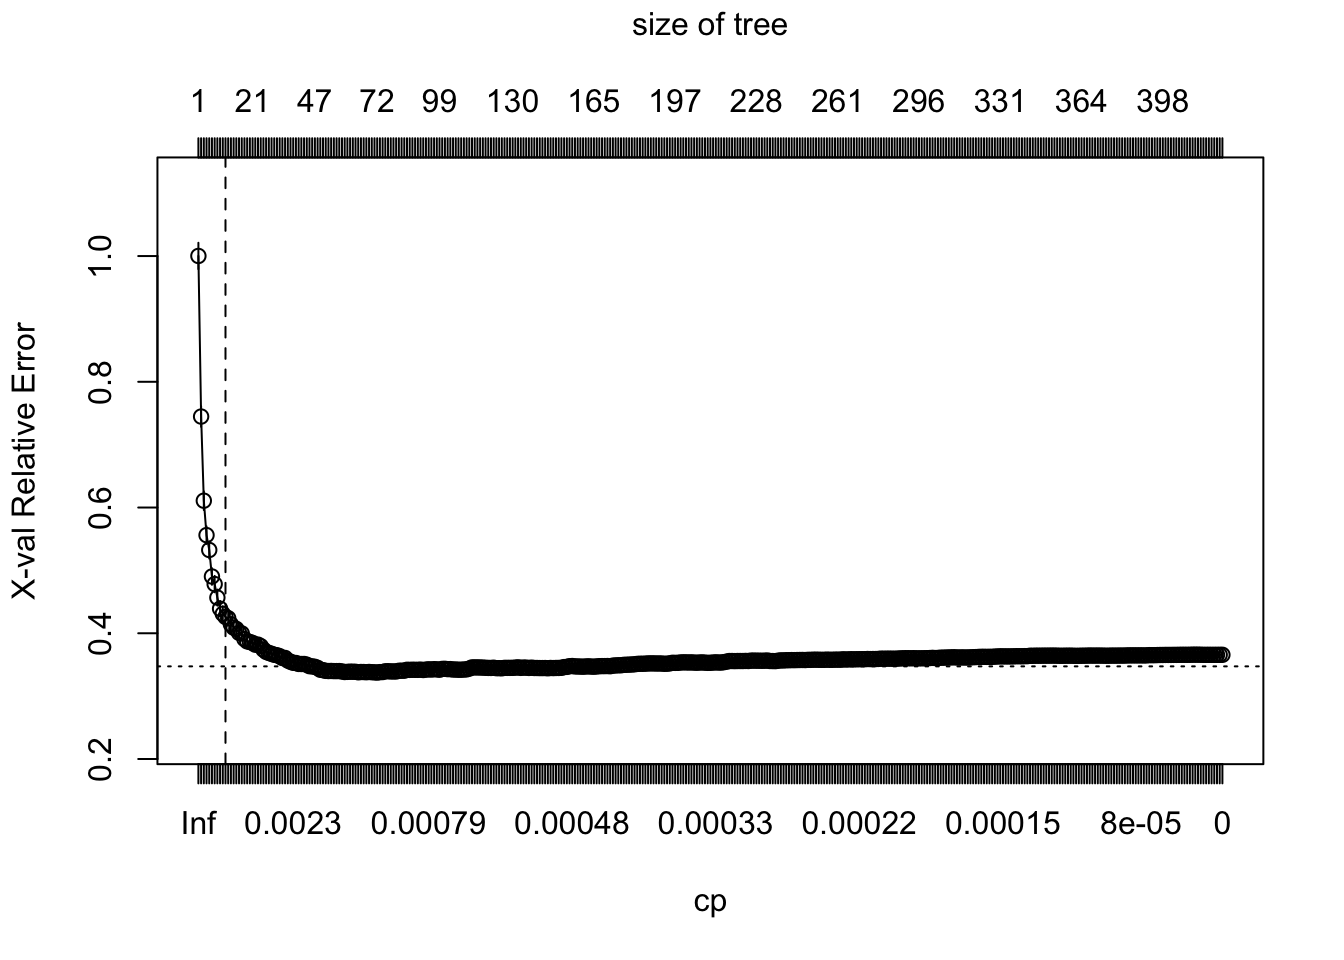
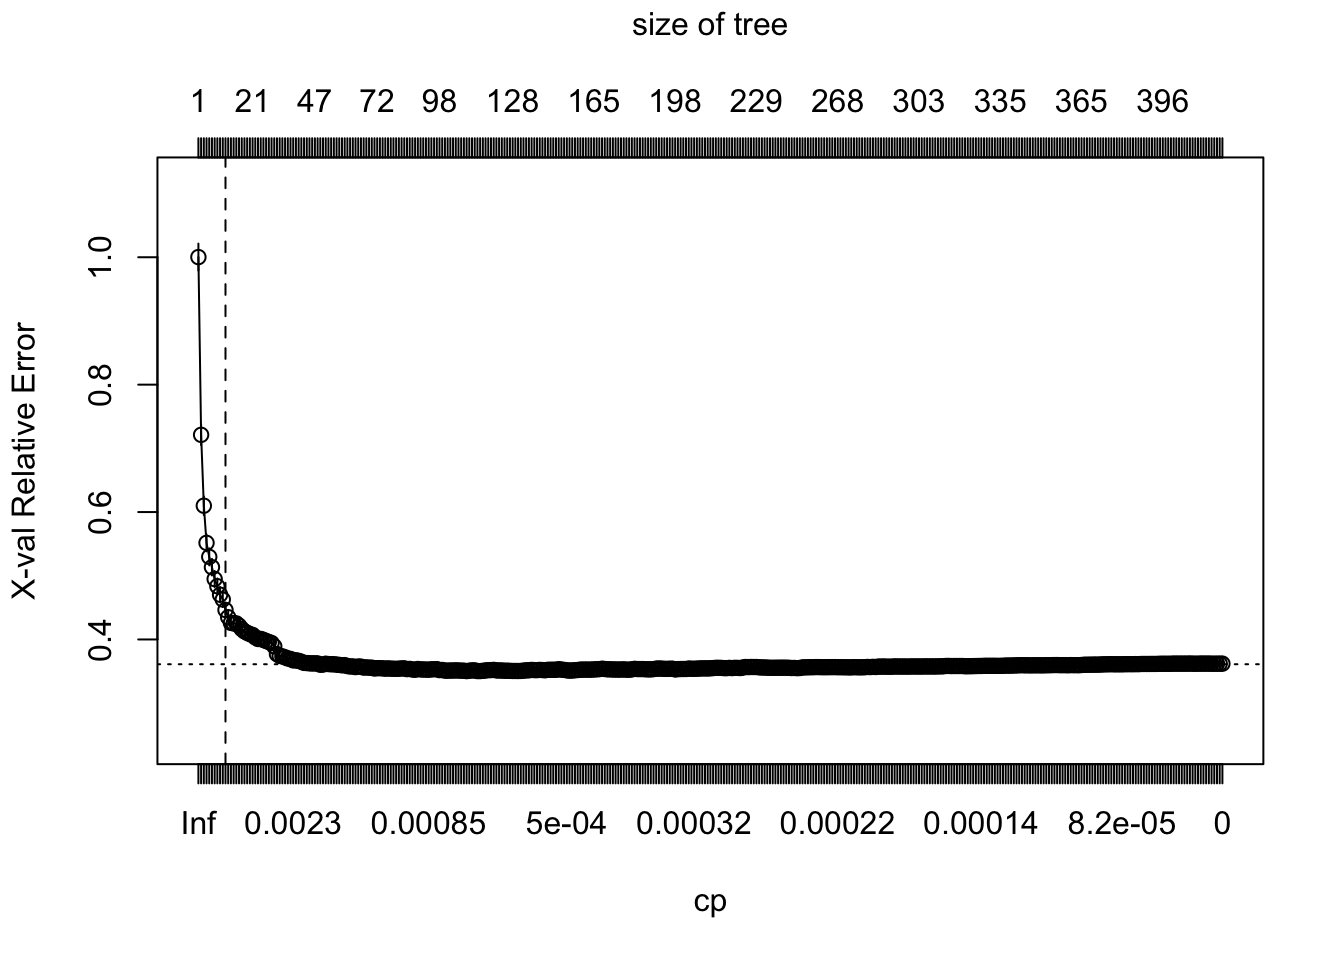
ch10fig

diff --git a/_book/machine-learning.html b/_book/machine-learning.html
@@ -447,7 +447,7 @@ div.csl-indent {
 <p>In essence, a decision tree is like a flowchart that helps us make a decision based on a number of questions or conditions, which are represented by internal nodes. It starts with a root node and branches out into different paths, with each branch representing a decision. The final nodes represent the outcome and are known as leaf nodes. For example, imagine you are trying to decide what to wear to an event. You could create a decision tree with the root node being “Formal event?”, like in the diagram below. If the answer is “yes” you would proceed to the left and if the answer if “no”, you would proceed to the right. On the right, you would have another node for “Black tie?”, and again two “yes” and “no” branches emerging from it. On the left, you would have a node for “Everyday wear?” with its two branches. Each branch would eventually lead to a decision or action represented by the so-called leaf nodes, such as “wear suit”.</p>
 <div class="quarto-figure quarto-figure-center">
 <figure class="figure">
-<p><img src="figs/chp11/Presentation1/Decision tree.jpg" class="img-fluid figure-img" width="494"></p>
+<p><img src="figs/chp10/Decision tree.jpg" class="img-fluid figure-img" width="470"></p>
 </figure>
 </div>
 <p>The decision tree to predict the annual household income of an MSOA based on its demographic features will be a lot more complex than the one depicted above. The branches will lead to leaf nodes representing the predicted values of annual household income. The internal nodes will represent conditions for the demographic variables (e.g.&nbsp;is the percentage of people aged 65 or over in this MSOA greater than <em>X</em> %?). Not all the demographic variables will be equally relevant to predict the annual household income at the MSOA level. To optimise the prediction process, conditions on the most relevant variables should be near the root of the tree so the most determining questions can be asked at the beginning of the decision-making process. The internal nodes that are further from the tree will help fine-tune the final predictions. But, how can we choose which are the most relevant variables? And, what are the right questions to ask in each internal node (e.g.&nbsp;if we are asking ‘is the percentage of people aged 65 or over in this MSOA greater than <em>X</em> %?’, what should be the value of <em>X</em> ?).</p>
@@ -496,14 +496,14 @@ div.csl-indent {
 <div class="cell">
 <div class="sourceCode cell-code" id="cb15"><pre class="sourceCode r code-with-copy"><code class="sourceCode r"><span id="cb15-1"><a href="#cb15-1" aria-hidden="true" tabindex="-1"></a><span class="fu">rmse</span>(predict_unseen, df_test<span class="sc">$</span>INCOME)</span></code><button title="Copy to Clipboard" class="code-copy-button"><i class="bi"></i></button></pre></div>
 <div class="cell-output cell-output-stdout">
-<pre><code>[1] 4797.02</code></pre>
+<pre><code>[1] 4632.081</code></pre>
 </div>
 </div>
 <p>This value does not have much meaning in isolation. A good or bad RMSE is always relative to the specific data set. For this reason, we need to establish a baseline RMSE that we can compare it with. Here we establish this baseline as the RMSE that would be obtained from a naive tree that merely predicts the mean annual household income value across all the data entries in the training set. If the fitted model achieves an RSME lower than the naive model, we say that the fitted model “has skill”. The following line of code confirms that our fitted model is better than the naive model.</p>
 <div class="cell">
 <div class="sourceCode cell-code" id="cb17"><pre class="sourceCode r code-with-copy"><code class="sourceCode r"><span id="cb17-1"><a href="#cb17-1" aria-hidden="true" tabindex="-1"></a><span class="fu">rmse</span>(predict_unseen, <span class="fu">mean</span>(df_train<span class="sc">$</span>INCOME))</span></code><button title="Copy to Clipboard" class="code-copy-button"><i class="bi"></i></button></pre></div>
 <div class="cell-output cell-output-stdout">
-<pre><code>[1] 5498.905</code></pre>
+<pre><code>[1] 5284.857</code></pre>
 </div>
 </div>
 </section>
@@ -535,11 +535,11 @@ div.csl-indent {
 
 No pre-processing
 Resampling: Cross-Validated (10 fold) 
-Summary of sample sizes: 4459, 4459, 4462, 4462, 4461, 4461, ... 
+Summary of sample sizes: 4460, 4461, 4460, 4461, 4462, 4460, ... 
 Resampling results:
 
   RMSE      Rsquared   MAE     
-  4159.769  0.6641944  3135.584</code></pre>
+  4148.734  0.6664626  3119.151</code></pre>
 </div>
 </div>
 <p>We see that the cross-validated value of RMSE with bagging is lower than that associated with the single decision tree that we trained with <code>rcart</code>. This indicates that the predictive performance is estimated to be better. We can compare the cross-validated value of the RMSE with the RMSE from the test set. These two quantities should be close:</p>
@@ -547,7 +547,7 @@ Resampling results:
 <div class="sourceCode cell-code" id="cb21"><pre class="sourceCode r code-with-copy"><code class="sourceCode r"><span id="cb21-1"><a href="#cb21-1" aria-hidden="true" tabindex="-1"></a>predict_bagged_unseen <span class="ot">&lt;-</span> <span class="fu">predict</span>(bagged, df_test)</span>
 <span id="cb21-2"><a href="#cb21-2" aria-hidden="true" tabindex="-1"></a><span class="fu">rmse</span>(predict_bagged_unseen, df_test<span class="sc">$</span>INCOME)</span></code><button title="Copy to Clipboard" class="code-copy-button"><i class="bi"></i></button></pre></div>
 <div class="cell-output cell-output-stdout">
-<pre><code>[1] 4239.013</code></pre>
+<pre><code>[1] 4126.505</code></pre>
 </div>
 </div>
 <p>The library <code>caret</code> has an additional function <code>varImp()</code> that helps us understand the variable importance across the bagged trees, i.e.&nbsp;the variables that are most relevant to determine the predictions of MSOA net annual household income. You are welcome to check the <code>caret</code> documentation to learn more about how the variable importance is determined. We can plot a rank of variable importance by running the code below.</p>
@@ -586,8 +586,8 @@ Call:
                      Number of trees: 500
 No. of variables tried at each split: 16
 
-          Mean of squared residuals: 9696158
-                    % Var explained: 80.66</code></pre>
+          Mean of squared residuals: 10021205
+                    % Var explained: 80.05</code></pre>
 </div>
 </div>
 <p>As we can see from above, the mean of squared residuals, which is the same as the MSE, is 9903736 for 500 trees and therefore, RMSE = 3147. This metric is computed by averaging residuals from the OOB samples. To illustrate how the MSE varies as more bootstrap samples are added to the model, we can plot the fitted model:</p>
@@ -608,7 +608,7 @@ No. of variables tried at each split: 16
 <div class="cell">
 <div class="sourceCode cell-code" id="cb29"><pre class="sourceCode r code-with-copy"><code class="sourceCode r"><span id="cb29-1"><a href="#cb29-1" aria-hidden="true" tabindex="-1"></a><span class="fu">sqrt</span>(fit_rf<span class="sc">$</span>mse[<span class="fu">which.min</span>(fit_rf<span class="sc">$</span>mse)])</span></code><button title="Copy to Clipboard" class="code-copy-button"><i class="bi"></i></button></pre></div>
 <div class="cell-output cell-output-stdout">
-<pre><code>[1] 3113.866</code></pre>
+<pre><code>[1] 3165.629</code></pre>
 </div>
 </div>
 <p>This is a much lower value than what we obtained with just a single tree and even after applying bagging! Remember, this RMSE is based on the OOB samples, but we could also obtain it from the test set. <code>randomForest()</code> allows us to easily compare the RMSE obtained from OOB data and from the test set.</p>
@@ -676,16 +676,13 @@ No. of variables tried at each split: 16
 <span id="cb34-12"><a href="#cb34-12" aria-hidden="true" tabindex="-1"></a>  <span class="co"># add OOB error to grid</span></span>
 <span id="cb34-13"><a href="#cb34-13" aria-hidden="true" tabindex="-1"></a>  hyper_grid<span class="sc">$</span>OOB_RMSE[i] <span class="ot">&lt;-</span> <span class="fu">sqrt</span>(fit_rf_tuning<span class="sc">$</span>prediction.error)</span>
 <span id="cb34-14"><a href="#cb34-14" aria-hidden="true" tabindex="-1"></a>}</span></code><button title="Copy to Clipboard" class="code-copy-button"><i class="bi"></i></button></pre></div>
-<div class="cell-output cell-output-stdout">
-<pre><code>Growing trees.. Progress: 93%. Estimated remaining time: 3 seconds.</code></pre>
-</div>
 </div>
 <p>From the fitted models, the one that produces the minimum OOB RMSE and hence, the best-performing one, is given by the combination of parameters printed below:</p>
 <div class="cell">
-<div class="sourceCode cell-code" id="cb36"><pre class="sourceCode r code-with-copy"><code class="sourceCode r"><span id="cb36-1"><a href="#cb36-1" aria-hidden="true" tabindex="-1"></a>hyper_grid[<span class="fu">which.min</span>(hyper_grid<span class="sc">$</span>OOB_RMSE),]</span></code><button title="Copy to Clipboard" class="code-copy-button"><i class="bi"></i></button></pre></div>
+<div class="sourceCode cell-code" id="cb35"><pre class="sourceCode r code-with-copy"><code class="sourceCode r"><span id="cb35-1"><a href="#cb35-1" aria-hidden="true" tabindex="-1"></a>hyper_grid[<span class="fu">which.min</span>(hyper_grid<span class="sc">$</span>OOB_RMSE),]</span></code><button title="Copy to Clipboard" class="code-copy-button"><i class="bi"></i></button></pre></div>
 <div class="cell-output cell-output-stdout">
 <pre><code>   mtry sample.fraction min.node.size OOB_RMSE
-87   14             0.8             7 3120.626</code></pre>
+50   12            0.75             5 3174.553</code></pre>
 </div>
 </div>
 <p><code>mtry</code>= 14, <code>sample.fraction</code> =0.8 and <code>min.node.size</code>=3. The OOB RMSE is 3141.089, slightly lower than the error we obtained with the default model for random forest with no tuning, yay!</p>
@@ -695,14 +692,14 @@ No. of variables tried at each split: 16
 <h2 data-number="10.6" class="anchored" data-anchor-id="questions"><span class="header-section-number">10.6</span> Questions</h2>
 <p>For this set of questions, you will use a data set very similar to the one used in the examples above. However, instead of focusing on predicting the net annual household income, you will focus in the median house price paid in each MSOA in 2021. The raw data for median house price can be downloaded <a href="https://www.ons.gov.uk/peoplepopulationandcommunity/housing/datasets/hpssadataset2medianhousepricebymsoaquarterlyrollingyear">here</a>, but we have created a clean dataset for you. You can load the relevant data set by running the code below:</p>
 <div class="cell">
-<div class="sourceCode cell-code" id="cb38"><pre class="sourceCode r code-with-copy"><code class="sourceCode r"><span id="cb38-1"><a href="#cb38-1" aria-hidden="true" tabindex="-1"></a><span class="co"># Load the data</span></span>
-<span id="cb38-2"><a href="#cb38-2" aria-hidden="true" tabindex="-1"></a>df_housing <span class="ot">&lt;-</span> <span class="fu">read.csv</span>(<span class="st">"./data/machine-learning/census2021-msoa-houseprice.csv"</span>)</span>
-<span id="cb38-3"><a href="#cb38-3" aria-hidden="true" tabindex="-1"></a><span class="co"># Data cleaning, remove the X field</span></span>
-<span id="cb38-4"><a href="#cb38-4" aria-hidden="true" tabindex="-1"></a>df_housing<span class="sc">$</span>X <span class="ot">&lt;-</span> <span class="cn">NULL</span></span>
-<span id="cb38-5"><a href="#cb38-5" aria-hidden="true" tabindex="-1"></a><span class="co"># Data cleaning, the fields "date", "geography" and "geography.code" are not needed</span></span>
-<span id="cb38-6"><a href="#cb38-6" aria-hidden="true" tabindex="-1"></a>df_housing <span class="ot">&lt;-</span> <span class="fu">subset</span>(df_housing, <span class="at">select =</span> <span class="sc">-</span><span class="fu">c</span>(date, geography, geography.code))</span>
-<span id="cb38-7"><a href="#cb38-7" aria-hidden="true" tabindex="-1"></a><span class="co"># More data cleaning, remove comma from income and turn it into a numeric value</span></span>
-<span id="cb38-8"><a href="#cb38-8" aria-hidden="true" tabindex="-1"></a>df_housing<span class="sc">$</span>HOUSEPRICE <span class="ot">&lt;-</span> <span class="fu">as.numeric</span>(<span class="fu">gsub</span>(<span class="st">","</span>, <span class="st">""</span>, df_housing<span class="sc">$</span>HOUSEPRICE))</span></code><button title="Copy to Clipboard" class="code-copy-button"><i class="bi"></i></button></pre></div>
+<div class="sourceCode cell-code" id="cb37"><pre class="sourceCode r code-with-copy"><code class="sourceCode r"><span id="cb37-1"><a href="#cb37-1" aria-hidden="true" tabindex="-1"></a><span class="co"># Load the data</span></span>
+<span id="cb37-2"><a href="#cb37-2" aria-hidden="true" tabindex="-1"></a>df_housing <span class="ot">&lt;-</span> <span class="fu">read.csv</span>(<span class="st">"./data/machine-learning/census2021-msoa-houseprice.csv"</span>)</span>
+<span id="cb37-3"><a href="#cb37-3" aria-hidden="true" tabindex="-1"></a><span class="co"># Data cleaning, remove the X field</span></span>
+<span id="cb37-4"><a href="#cb37-4" aria-hidden="true" tabindex="-1"></a>df_housing<span class="sc">$</span>X <span class="ot">&lt;-</span> <span class="cn">NULL</span></span>
+<span id="cb37-5"><a href="#cb37-5" aria-hidden="true" tabindex="-1"></a><span class="co"># Data cleaning, the fields "date", "geography" and "geography.code" are not needed</span></span>
+<span id="cb37-6"><a href="#cb37-6" aria-hidden="true" tabindex="-1"></a>df_housing <span class="ot">&lt;-</span> <span class="fu">subset</span>(df_housing, <span class="at">select =</span> <span class="sc">-</span><span class="fu">c</span>(date, geography, geography.code))</span>
+<span id="cb37-7"><a href="#cb37-7" aria-hidden="true" tabindex="-1"></a><span class="co"># More data cleaning, remove comma from income and turn it into a numeric value</span></span>
+<span id="cb37-8"><a href="#cb37-8" aria-hidden="true" tabindex="-1"></a>df_housing<span class="sc">$</span>HOUSEPRICE <span class="ot">&lt;-</span> <span class="fu">as.numeric</span>(<span class="fu">gsub</span>(<span class="st">","</span>, <span class="st">""</span>, df_housing<span class="sc">$</span>HOUSEPRICE))</span></code><button title="Copy to Clipboard" class="code-copy-button"><i class="bi"></i></button></pre></div>
 </div>
 <p>For the following questions, you will use the whole dataset for training and evaluate the performance of the ML models via the OOB error.</p>
 <ol type="1">
